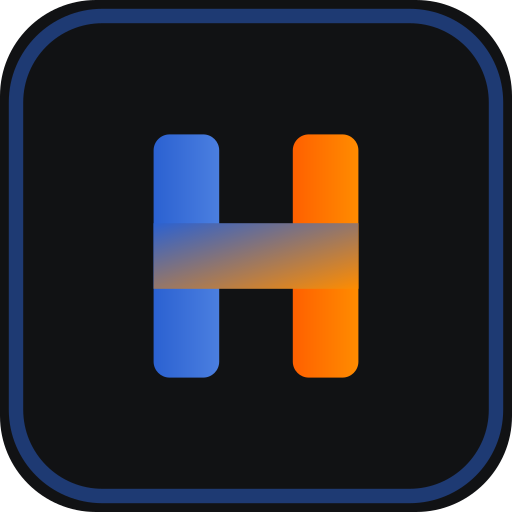
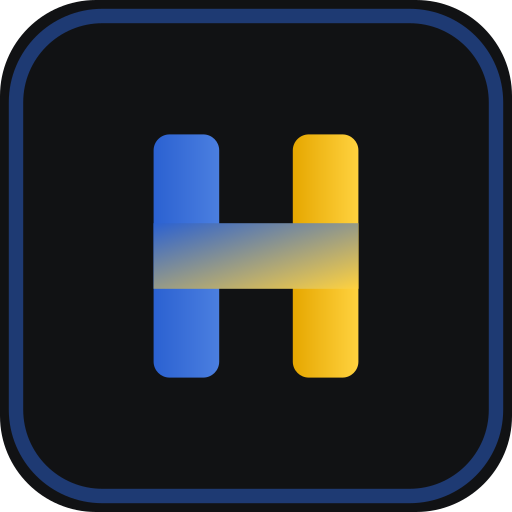
Coalition: brand colour orange → gold (Coalition 0.16.0, protocol 0.6.50)
Signing-console theme accents + glow → gold, dark text on the primary button;
favicon.svg gold, favicon.ico/icon-512.png re-rendered.

Changed region(s): [[0.2812, 0.25, 0.7188, 0.75]]

diff --git a/protocol/src/sign-launcher.ts b/protocol/src/sign-launcher.ts
@@ -41,11 +41,11 @@ export function escapeHtmlAttribute(value: string): string {
  */
 export const CONSOLE_THEME_CSS = `
 :root{--bg:#0a0a0a;--card:#111111;--line:#262626;--fg:#e8e8e8;--muted:#9ca3af;
---accent:#ff4500;--accent2:#ff8c00;--glow:rgba(255,69,0,.3);--ok:#16a34a}
+--accent:#e6a700;--accent2:#ffd23f;--glow:rgba(230,167,0,.3);--ok:#16a34a}
 *{box-sizing:border-box}
 body{font-family:system-ui,-apple-system,Segoe UI,Roboto,Ubuntu,Cantarell,Noto Sans,sans-serif;
 margin:0;padding:24px;line-height:1.5;color:var(--fg);background:var(--bg);
-background-image:radial-gradient(1100px 380px at 50% -12%,rgba(255,69,0,.09),transparent)}
+background-image:radial-gradient(1100px 380px at 50% -12%,rgba(230,167,0,.09),transparent)}
 .wrap{max-width:860px;margin:0 auto}
 header.mt{display:flex;align-items:baseline;gap:10px;margin-bottom:16px}
 .mark{font-weight:800;letter-spacing:.3px;font-size:18px;
@@ -60,7 +60,7 @@ th{color:var(--muted);font-weight:600;font-size:11px;text-transform:uppercase;le
 .btn{display:inline-block;padding:11px 18px;border:none;border-radius:10px;cursor:pointer;
 font-size:15px;font-weight:600;text-decoration:none;color:#fff;margin:4px 6px 4px 0}
 .btn:hover{text-decoration:none}
-.btn-primary{background:linear-gradient(135deg,var(--accent),var(--accent2));box-shadow:0 0 18px var(--glow)}
+.btn-primary{background:linear-gradient(135deg,var(--accent),var(--accent2));color:#0a0a0a;box-shadow:0 0 18px var(--glow)}
 /* Wallet buttons wear their own wallet's brand colour, not ours, so the operator
    recognises the button from inside SSP / Zelcore itself (SSP amber #fbbf24 on
    black text; Zelcore blue #1b63ef on white). Keep these in sync with the web
